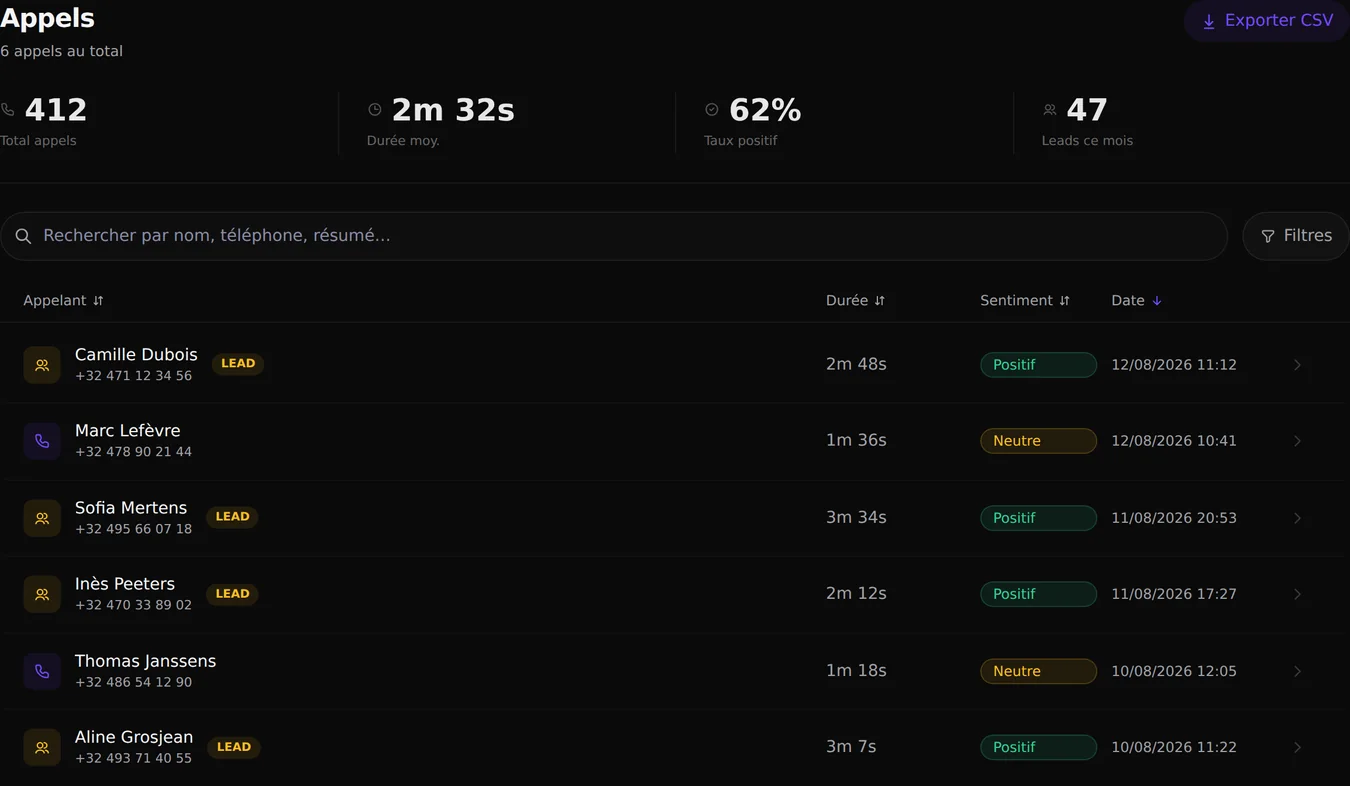
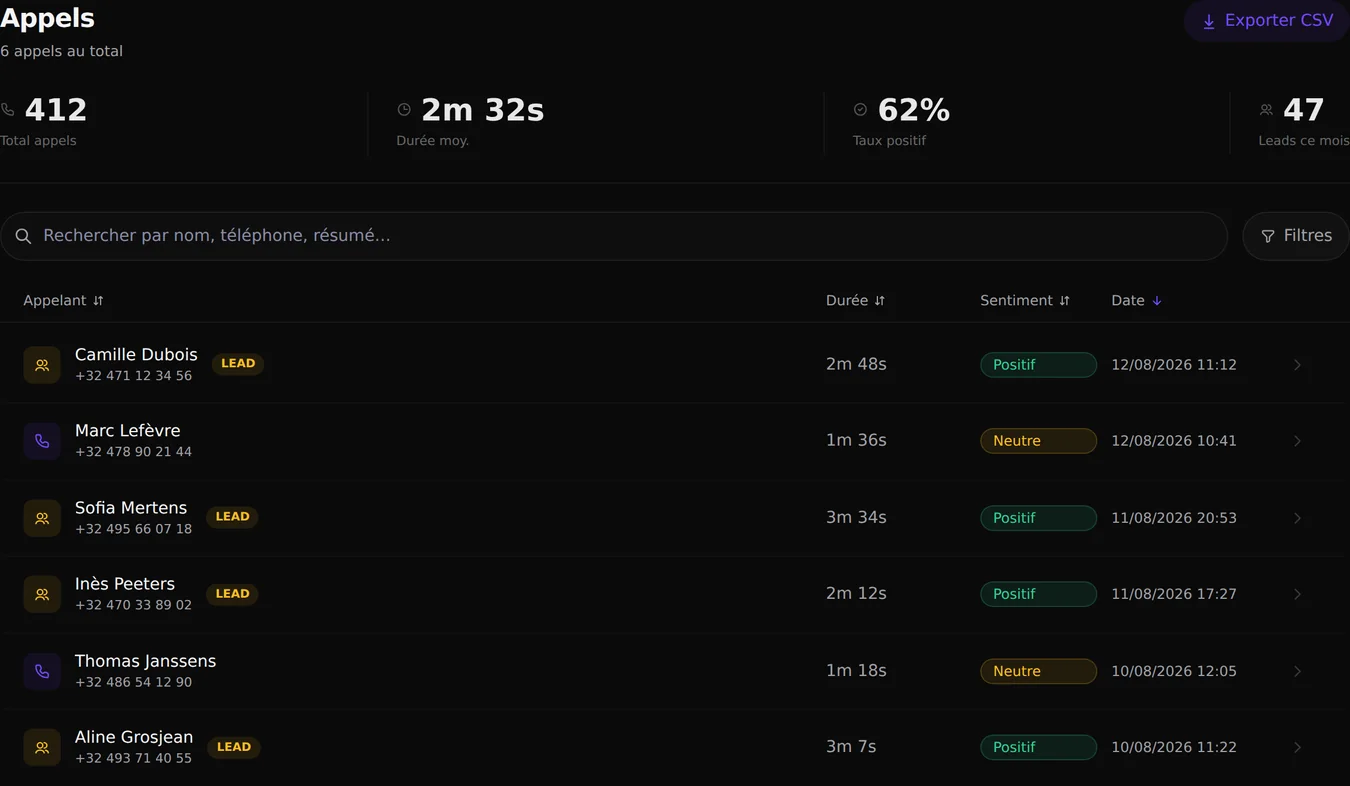
fix(portail): les colonnes de la rangee de chiffres prennent la largeur de leur contenu
Une grille a colonnes egales donne 87 px a chaque cellule sur un telephone, ce
qui va pour « 412 » et pas pour « 2m 32s »: le nombre debordait sur le filet et
sur l'icone de la voisine (retour utilisateur). Le contenu ne se laisse pas
comprimer, c'est donc l'espace ENTRE les cellules qui absorbe la difference.

Verifie sur les deux rangees, Appels a quatre cellules et Leads a cinq.

diff --git a/frontend/src/components/dashboard/StatStrip.tsx b/frontend/src/components/dashboard/StatStrip.tsx
@@ -39,17 +39,19 @@ export interface StatCell {
 }
 
 export default function StatStrip({ items, label }: { items: StatCell[]; label?: string }) {
-  /* Autant de colonnes que de cellules, sans repli.
-     Le repli en 2×2 d'Appels décalait la troisième cellule sous la première et
-     demandait trois règles de rattrapage pour ses filets. Quatre ou cinq
-     nombres courts tiennent en largeur sur un téléphone; c'est le libellé qui
-     rétrécit, pas la grille. */
-  const cols = items.length >= 5 ? 'grid-cols-5' : items.length === 3 ? 'grid-cols-3' : 'grid-cols-4';
+  /* Les colonnes prennent la LARGEUR DE LEUR CONTENU, elles ne sont plus
+     égales. Une grille à colonnes égales donne 87 px à chaque cellule sur un
+     téléphone, ce qui va pour « 412 » et pas pour « 2m 32s »: le nombre
+     débordait sur le filet et sur l'icône de la voisine (retour utilisateur).
+     Le contenu ne se laisse pas comprimer, c'est donc l'ESPACE ENTRE les
+     cellules qui absorbe la différence.
+     Pas de repli en 2×2 pour autant: il décalait la troisième cellule sous la
+     première et demandait trois règles de rattrapage pour les filets. */
   const filtering = items.some(i => i.onClick);
 
   return (
     <div
-      className={`grid ${cols} divide-x divide-white/[0.06]`}
+      className="flex items-stretch justify-between divide-x divide-white/[0.06]"
       role={filtering ? 'group' : undefined}
       aria-label={label}
     >
